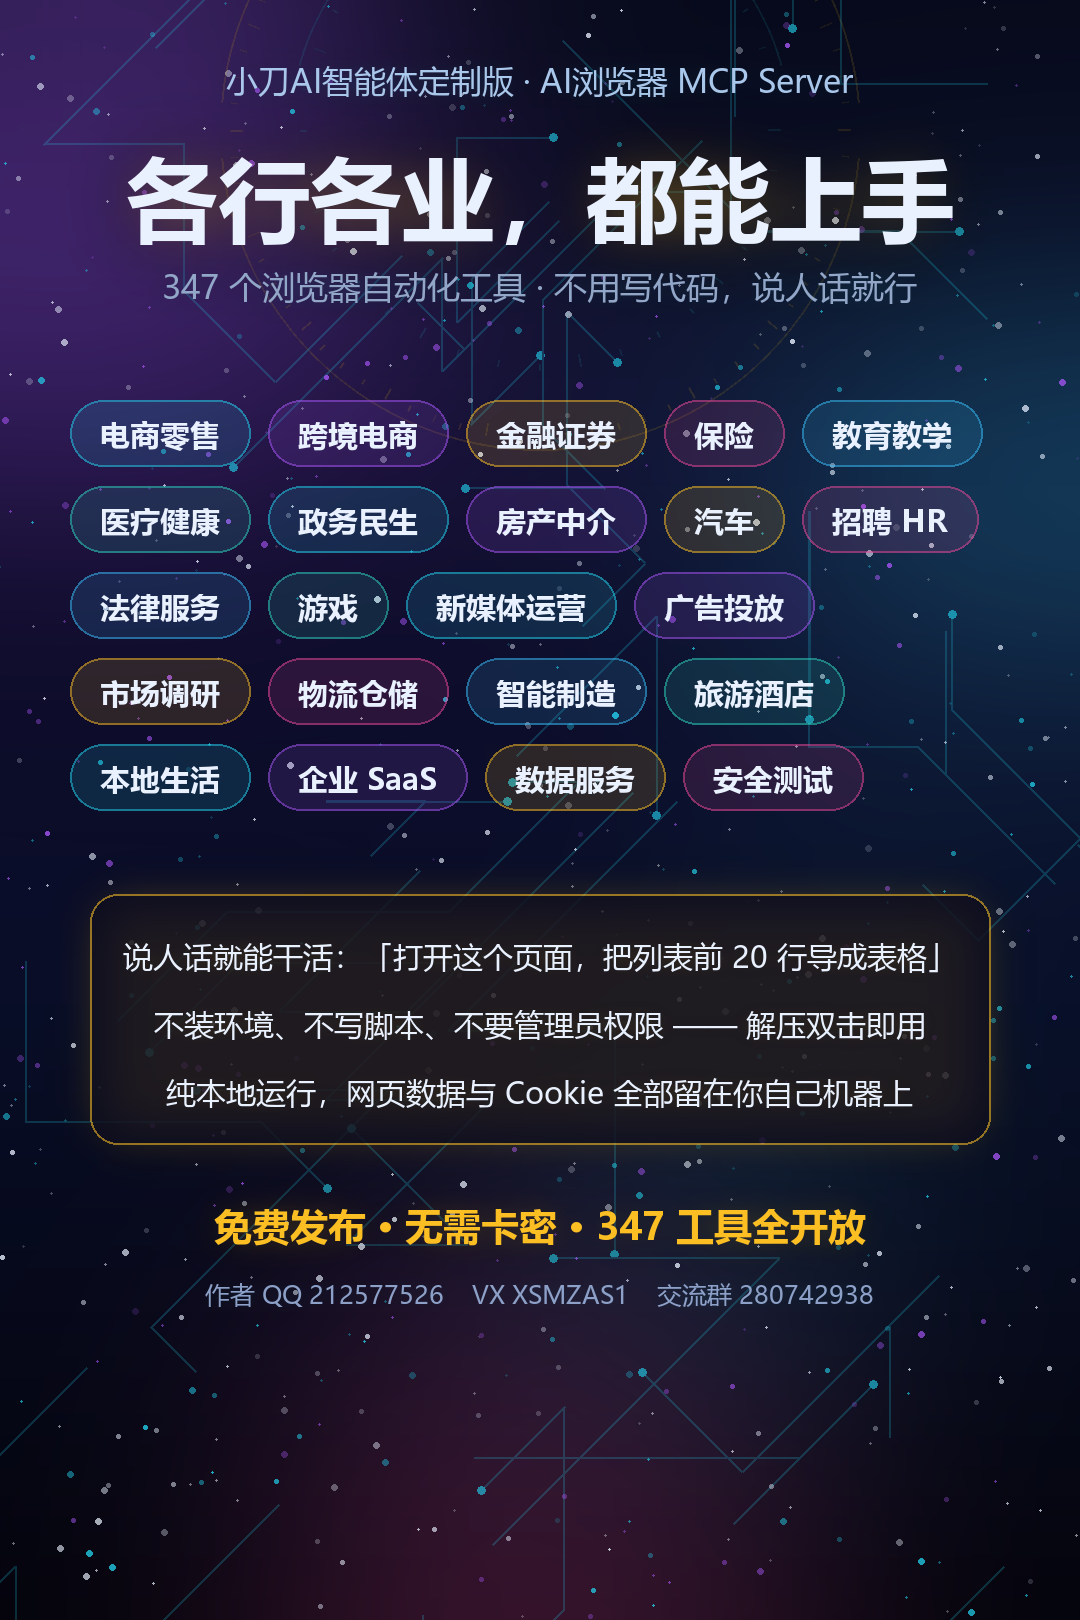
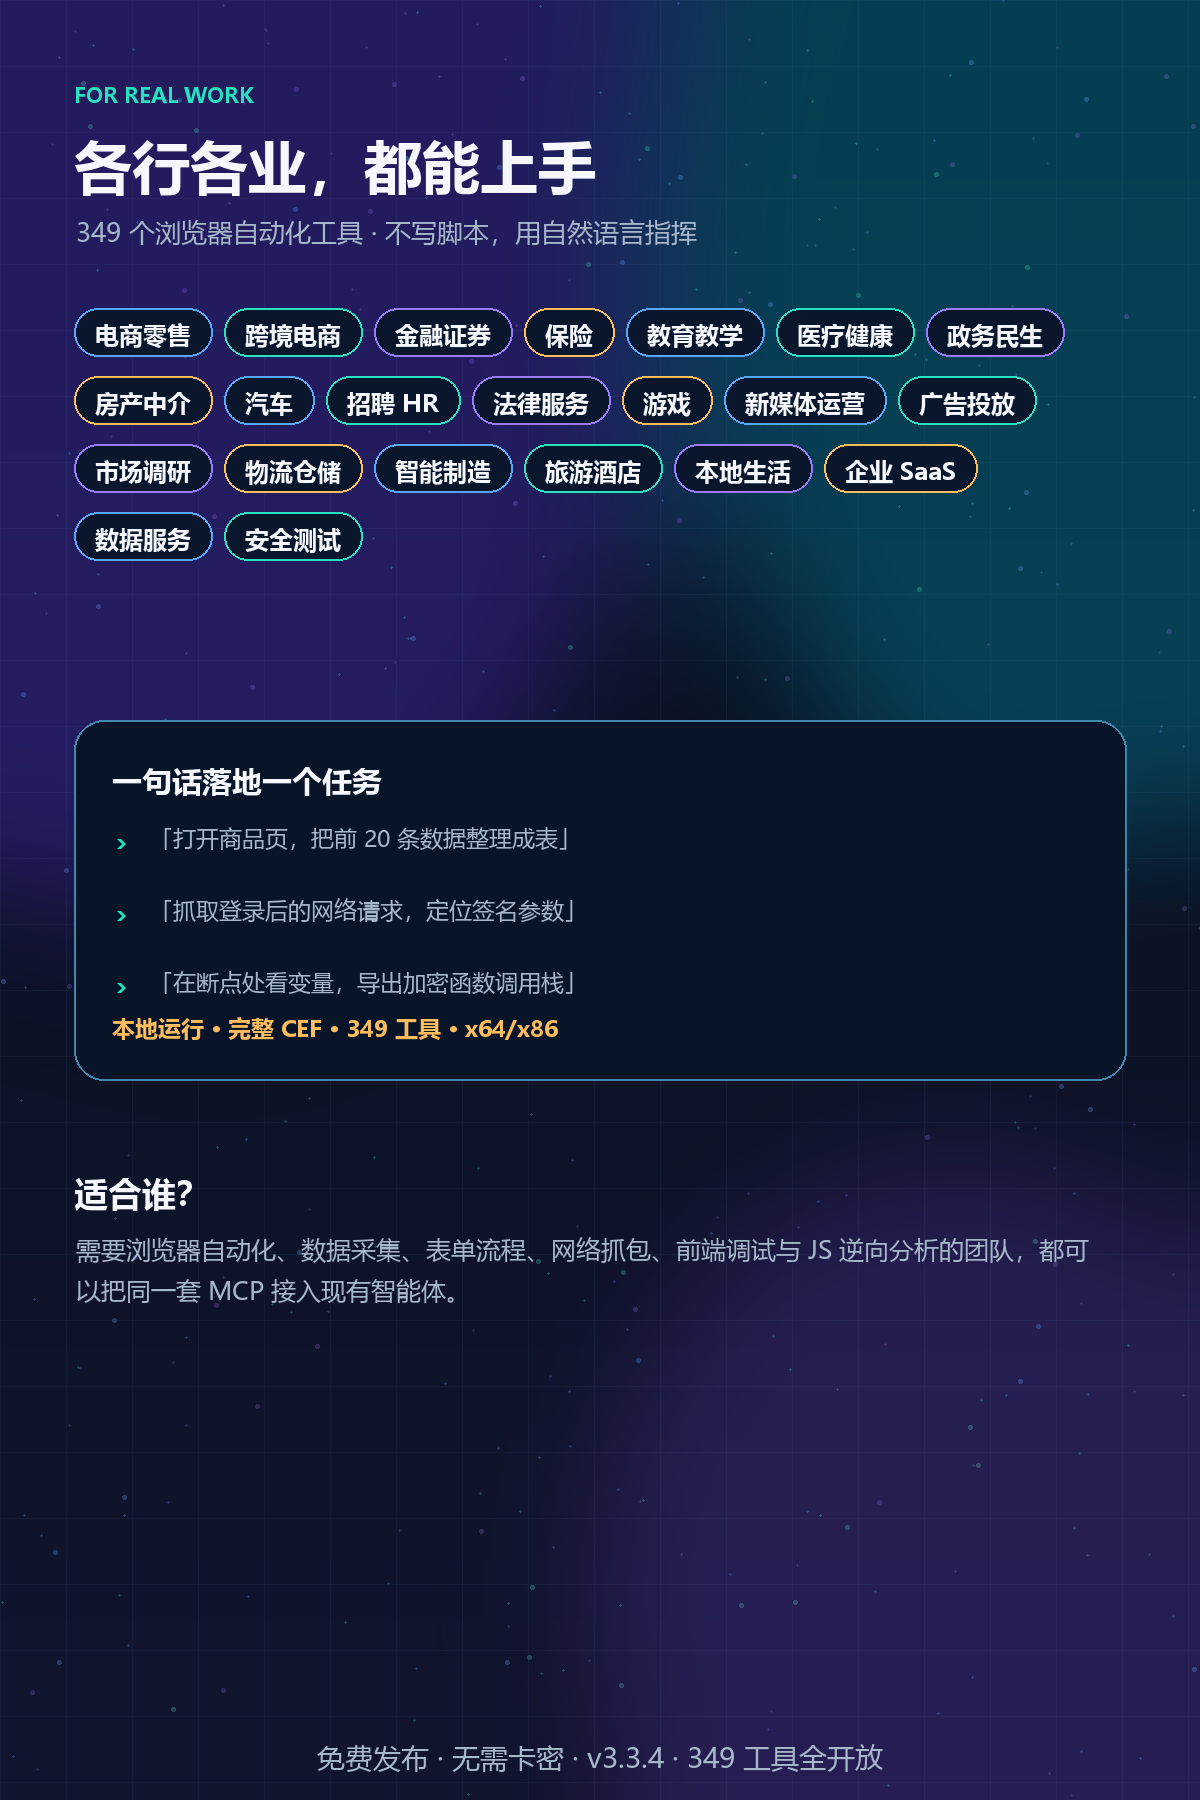
docs: refresh v3.3.4 promo assets and release layout

diff --git a/README.md b/README.md
@@ -4,13 +4,18 @@
 **Xiaodao AI-Browser MCP Server（小刀 AI 浏览器 MCP 服务端）** is a local **browser automation MCP server for Windows** built on the **Chromium / CEF** kernel. It speaks **MCP over stdio** (no ports, no daemon) and exposes **349 tools** covering navigation, extraction, form filling, screenshots/PDF, **network capture & HAR export**, **Chrome DevTools Protocol (CDP)** control, **JavaScript debugging & reverse engineering** (function hooks, hot patching, precise coverage, obfuscation detection), **anti-detect fingerprinting**, and **kernel-level CEF events**.
 关键词 / Keywords: MCP server, browser automation, Chromium, CEF, CDP, Chrome DevTools Protocol, web scraping, HAR, Playwright alternative, Puppeteer alternative, reverse engineering, JS debugging, anti-detect, fingerprint, headless-less local browser, Windows, Claude Desktop, Cursor, Trae, DeepSeek Harness, 浏览器自动化, 逆向, 指纹, 反检测.
 
-## 宣传图 / Promo
-| | |
-|---|---|
-| ![六卖点](assets/promo/xiaodao-mcp-six-selling-points.png) | ![主海报](assets/promo/xiaodao-mcp-main-poster.png) |
-| ![真内核](assets/promo/xiaodao-mcp-real-chromium-kernel.png) | ![免费发布](assets/promo/xiaodao-mcp-free-no-license-key.png) |
 ![release](https://img.shields.io/github/v/release/AI-XiaoDao/xiaodao-ai-browser-mcp?label=release) ![verify](https://github.com/AI-XiaoDao/xiaodao-ai-browser-mcp/actions/workflows/verify-release.yml/badge.svg) ![license](https://img.shields.io/badge/license-proprietary-blue) ![platform](https://img.shields.io/badge/platform-Windows%2010%2F11%20x64%20%7C%20x86-lightgrey)
 
+## 宣传图 / Promo
+| 产品全貌 | 六卖点 |
+|---|---|
+| ![主海报](assets/promo/xiaodao-mcp-main-poster.png) | ![六卖点](assets/promo/xiaodao-mcp-six-selling-points.png) |
+
+| x64 + x86 双架构 | 行业场景 |
+|---|---|
+| ![双架构](assets/promo/xiaodao-mcp-x64-x86.png) | ![行业场景](assets/promo/xiaodao-mcp-industry-poster.png) |
+
+另有 [真 Chromium 内核](assets/promo/xiaodao-mcp-real-chromium-kernel.png) 与 [免费发布](assets/promo/xiaodao-mcp-free-no-license-key.png) 卡片。素材规格见 [assets/promo/README.md](assets/promo/README.md)。
 **支持/Support:** [SUPPORT.md](SUPPORT.md) · **安全/Security:** [SECURITY.md](SECURITY.md) · **许可/License:** [LICENSE](LICENSE) · **兼容性:** [docs/COMPATIBILITY.md](docs/COMPATIBILITY.md) · **部署:** [docs/DEPLOYMENT.md](docs/DEPLOYMENT.md) · **架构:** [docs/ARCHITECTURE.md](docs/ARCHITECTURE.md) · **SBOM:** [docs/SBOM.md](docs/SBOM.md) · **路线图:** [docs/ROADMAP.md](docs/ROADMAP.md) · **签名:** [docs/CODE-SIGNING.md](docs/CODE-SIGNING.md)
 
 # Xiaodao AI-Browser MCP Server · 小刀 AI 浏览器 MCP Server
@@ -18,15 +23,24 @@
 Windows 本地浏览器自动化 MCP 服务端 —— **Google Chromium / CEF** 内核、仅 stdio 通道（`--mcp-stdio`）、**349** 个工具。
 A local browser-automation MCP server for Windows (Chromium/CEF, stdio-only, 349 tools).
 
-**最新版本 / Latest: `v3.3.4`** → 见 [Releases](../../releases)；源码在私密仓 `AI-XiaoDao/xiaodao-ai-browser-mcp-src`。
+**最新版本 / Latest: `v3.3.4`** → 见 [Releases](../../releases)。本仓只发布成品；源码维护在私密仓 `AI-XiaoDao/xiaodao-ai-browser-mcp-src`，不在 Release 或本仓公开。
+
+## 快速下载 / Quick download
+| 系统 | 选择 | 包内内容 |
+|---|---|---|
+| 64 位 Windows 10/11 | `xiaodao-ai-browser-mcp-v3.3.4-x64.zip` | 349 工具 + 完整 64 位 CEF 运行库 + Logo |
+| 32 位 Windows 10/11 | `xiaodao-ai-browser-mcp-v3.3.4-x86.zip` | 349 工具 + 完整 32 位 CEF 运行库 + Logo |
+
+不要混用两个包：CEF、sqlite 与原生 DLL 都有位数要求。
 
 ## 安装（三步） / Install (3 steps)
-1. 下载并解压对应架构包：`xiaodao-ai-browser-mcp-v3.3.4-x64.zip`（64 位）或 `xiaodao-ai-browser-mcp-v3.3.4-x86.zip`（32 位）
-   → Download & unzip the x64 or x86 package for your Windows architecture
+
+1. 按系统位数下载并解压对应 zip → Download & unzip the package for your Windows architecture
 2. 以 `AI-Fbowser-Mcp.exe` 所在目录为运行目录 → Use the folder containing `AI-Fbowser-Mcp.exe` as the working directory
 3. `AI-Fbowser-Mcp.exe --print-config` 输出可直接粘贴进 MCP 客户端配置的 JSON（自动带本机真实路径）
    → `--print-config` prints a ready-to-paste `mcpServers` JSON block with the real local path.
-   需要离线运行时请直接使用 zip 内的完整 CEF 运行库；本版未单独发布 DSH 安装器。
+
+下载行为：默认 `auto_download_save=true`，浏览器内点击下载会**静默保存**到运行目录的 `Downloads`，不会弹“另存为”。页面下载完成时，`browser_event` 可查 `download_start / download_progress / download_complete`。
 
 ## 环境变量 / Environment
 | 变量 | 作用 |
@@ -40,10 +54,8 @@ A local browser-automation MCP server for Windows (Chromium/CEF, stdio-only, 349
 ## 资产 / Release assets
 | 文件 | 说明 |
 |---|---|
-| `xiaodao-ai-browser-mcp-v3.3.4-x64.zip` | 64 位成品（349 工具，完整 CEF 运行库与 Logo；165,381,000 B；内层 exe MD5 `DDA9CB4C2DBF797713E650A6DECE9B3E`，9,280,512 B） |
-| `xiaodao-ai-browser-mcp-v3.3.4-x86.zip` | 32 位成品（349 工具，完整 32 位 CEF 运行库与 Logo；143,361,671 B；内层 exe MD5 `F7DE9DF5351BE38C696EBC694D158F7E`，7,683,584 B） |
-| `xiaodao-mcp-source-volcano-v3.3.4.zip` | 火山 PC 完整源码归档 |
-| `xiaodao-mcp-generated-cpp-v3.3.4-x64.zip` | x64 生成的 C++ 中间源码归档 |
+| `xiaodao-ai-browser-mcp-v3.3.4-x64.zip` | 64 位成品（349 工具，完整 CEF 运行库与 Logo；165,655,537 B；内层 exe MD5 `8FFFCF297EEB2B0FB83A5B93AAA3AA21`，9,285,120 B） |
+| `xiaodao-ai-browser-mcp-v3.3.4-x86.zip` | 32 位成品（349 工具，完整 32 位 CEF 运行库与 Logo；144,073,249 B；内层 exe MD5 `7F5B5BE9950B6B28400B9C4A08A76C6E`，7,684,608 B） |
 | `00-checksums-sha256-md5.csv` | 全部发布资产的 MD5 + SHA256 |
 
 ## 验收（机对机） / Verification
@@ -53,6 +65,7 @@ A local browser-automation MCP server for Windows (Chromium/CEF, stdio-only, 349
 - **x86 最终全量扫描：334 成功、15 个明确失败、0 无回包、0 进程退出**（包含被移除的测试夹具项；其余失败性质同上）。
 - `browser_resources` 的 x86 回调 ABI 问题已修复：x86 返回 `metrics_available:false`，不再把未知统计伪装成可用；x64 继续返回完整指标。
 - 截图、PDF 的 `save_to/path` 现在自动创建父目录；`browser_reverse_heap` 的 snapshot 改为异步提交，单次约 30–95ms 返回，不再占死工作池。
+- 下载路径已消除运行目录尾斜杠造成的双反斜杠；x64/x86 均实测 `Downloads\audit.txt` 落盘成功。
 - `browser_fingerprint_ua` 默认安全拒绝并在约 1 秒内返回原因；只有显式 `confirm:true` 才进入高风险渲染器切换路径。
 - `tools/list` 读线程快答、CDP 诚实性、客户端矩阵 7/7、取消通知、帧族与工作池回归证据保留在 [docs/AUDIT-3.3.4.md](docs/AUDIT-3.3.4.md)。
 
@@ -76,9 +89,10 @@ docs/CHANGELOG.md         更新日志
 docs/VERIFICATION.md      验收事实（机对机证据）
 docs/KNOWN-LIMITS.md      已知边界
 examples/mcp_config.example.json  客户端配置示例（含 UTF-8 开关）
-assets/                    图标与预览图
+assets/                    图标与宣传图（assets/promo）
 ```
 > 二进制成品不进入 Git 历史，全部随 [Releases](../../releases) 分发。
+> 发布仓只包含成品、文档、测试与宣传资源；源码不会进入发布仓。
 
 ## 能力与优势 / Capabilities & Advantages
 

diff --git a/docs/AUDIT-3.3.4.md b/docs/AUDIT-3.3.4.md
@@ -126,6 +126,8 @@
 | `browser_resources` x86 回调 ABI | x86 不再返回非法片段；明确 `metrics_available:false`，x64 保留完整指标 |
 | 截图 / PDF 父目录 | `save_to`/`path` 自动创建父目录；专项 4/4 |
 | 堆快照 | `browser_reverse_heap` snapshot 改为异步提交，约 30–95ms 返回，不占满工作池 |
+| 浏览器下载落盘 | 运行目录尾斜杠造成 `browser\\Downloads`，CEF 报完成后文件缺失；统一规范化路径后 x64/x86 均实际写出 `Downloads\audit.txt` |
 | 暂停/CDP 状态污染 | 测试与运行建议按暂停/恢复、CDP 毒化后重启隔离；最终扫描 0 无回包 |
 | 虚拟 UA | 默认安全拒绝并在约 1 秒内返回原因；显式 `confirm:true` 才进入高风险路径 |
 | 32 位交付 | 完整 32 位 CEF 运行时 + 32 位 sqlite 依赖；`ping=3.3.4`、349 工具、正常页操作通过 |
+| 宣传与仓库布局 | 宣传图统一为 349 工具、x64/x86、stdio-only、真实 CEF 口径；发布仓仅含成品与文档，源码只在私密仓 |

diff --git a/assets/promo/README.md b/assets/promo/README.md
@@ -1,0 +1,16 @@
+# Promo assets
+
+All images are deterministic code-rendered PNGs for this repository. They intentionally avoid
+AI-generated text so product claims, version numbers, hashes and architecture labels stay exact.
+
+| File | Intended use | Size |
+|---|---|---|
+| `xiaodao-mcp-banner-1200x630.png` | GitHub social preview / README hero | 1200x630 |
+| `xiaodao-mcp-main-poster.png` | Main release poster | 1200x1800 |
+| `xiaodao-mcp-six-selling-points.png` | Feature overview | 1200x1800 |
+| `xiaodao-mcp-real-chromium-kernel.png` | CEF kernel explainer | 1200x1200 |
+| `xiaodao-mcp-free-no-license-key.png` | Free release card | 1200x1200 |
+| `xiaodao-mcp-x64-x86.png` | Dual-architecture card | 1200x1200 |
+| `xiaodao-mcp-industry-poster.png` | Use-case / industry poster | 1200x1800 |
+
+Keep `v3.3.4`, `349 tools`, `x64 + x86` and the stdio-only statement consistent when replacing these assets.

diff --git a/docs/CHANGELOG.md b/docs/CHANGELOG.md
@@ -9,6 +9,9 @@
   断点零命中提示与自动暂停回退、取消通知无法中断等待等问题
 - 新增 `tool_profile=all/core/reverse/debug`；`core` 97 工具的 tools/list 体积约 -71.6%
 - 新增 `--debug` 结构化 stderr trace、配置校验告警、云元数据端点 SSRF 防护
+- 修复浏览器下载路径双反斜杠导致“回调完成但文件未落盘”；x64/x86 均验证实际写入 `Downloads`
+- 优化宣传图与仓库布局：统一 349 工具、x64/x86、stdio-only 和真实 CEF 运行库口径
+- 发布仓保持“只发布成品”，源码只在私密源码仓更新
 
 ## v3.3.3 (2026-09-19)
 **唯一功能性变更：stderr 输出编码可切换（国际化）。**

diff --git a/docs/README.md b/docs/README.md
@@ -15,6 +15,11 @@
 | [index.html](./index.html) | 所有人 | 离线 HTML 完整文档（本机打开 `docs\index.html`；注意与 exe 同级那个 `index.html` 欢迎页不是同一份） |
 | [assets/](./assets/) | — | 样式与 docs.js |
 
+发布仓还提供：
+
+- [宣传图规格](../assets/promo/README.md)：主海报、六卖点、双架构、CEF、免费发布与行业场景
+- 发布仓只提供成品与文档；源码维护在私密源码仓，不公开分发
+
 ## 工具清单的权威来源
 
 以运行时的 **MCP `tools/list`** 为准（由 AI 客户端自动拉取）。
